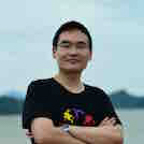
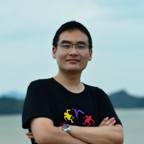
replace 秦之远 with 黄哲 change david anderson的图片 change 杨武东的图片

diff --git a/topics/huang_zhe.html b/topics/huang_zhe.html
@@ -1,0 +1,185 @@
+<!DOCTYPE html>
+<html lang="en">
+<head>
+    <title>SCRUM GATHERING CHINA 2016 | Topic Introduction Page</title>
+
+    <meta charset="utf-8">
+    <!--[if IE]>
+    <meta http-equiv='X-UA-Compatible' content='IE=edge,chrome=1'><![endif]-->
+    <meta name="viewport" content="width=device-width, initial-scale=1, maximum-scale=1"/>
+    <!--Add description for SEO-->
+    <meta property="og:title" content="SCRUM GATHERING CHINA 2016 | Topic Introduction Page"/>
+    <meta property="og:description"
+          content="Scrum Gathering China 2016 will be held at Hangzhou city during October 21-22, 2016.">
+    <!--Add image_src for the site-->
+    <meta property="og:image" content="http://scrumgathering.io/upload/speaker_huang_zhe.jpg"/>
+    <meta property="og:url" content="http://scrumgathering.io/"/>
+
+    <!-- Attaching Google Fonts -->
+    <!--<link href='https://fonts.googleapis.com/css?family=Lato:300italic,400italic,600italic,700italic,800italic,400,800,700,600,300' rel='stylesheet' type='text/css'>-->
+    <!--<link href='https://fonts.googleapis.com/css?family=Roboto:300,700,400' rel='stylesheet' type='text/css'>-->
+
+    <!-- Attaching Css -->
+    <link rel="stylesheet" href="../css/bootstrap.min.css"/>
+    <link rel="stylesheet" href="../css/lightbox.min.css"/>
+    <link rel="stylesheet" href="../css/elegant-icons.css"/>
+    <link rel="stylesheet" href="../css/font-awesome.css"/>
+    <link rel="stylesheet" href="../css/rev-slider.css"/>
+    <link rel="stylesheet" href="../css/owl.carousel.css">
+    <link rel="stylesheet" href="../css/style.css"/>
+    <link rel="stylesheet" href="../css/spacings.css"/>
+    <link rel="stylesheet" href="../css/responsive.css"/>
+    <link rel="stylesheet" href="../css/animate.css"/>
+
+    <!-- And also favicons -->
+    <link rel="shortcut icon" href="../upload/favicon.ico">
+    <link rel="apple-touch-icon" href="../upload/apple-touch-icon.png">
+    <link rel="apple-touch-icon" sizes="72x72" href="../upload/apple-touch-icon-72x72.png">
+    <link rel="apple-touch-icon" sizes="114x114" href="../upload/apple-touch-icon-114x114.png">
+
+    <!-- jQuery Scripts -->
+    <!--<script type="text/javascript" src="https://cdnjs.cloudflare.com/ajax/libs/jquery/2.1.3/jquery.min.js"></script>-->
+    <script type="text/javascript" src="../js/jquery.min.js"></script>
+    <script type="text/javascript" src="../js/canvas-vas.js"></script>
+    <script type="text/javascript" src="../js/bootstrap.min.js"></script>
+    <script type="text/javascript" src="../js/lightbox.min.js"></script>
+    <script type="text/javascript" src="../js/owl.carousel.min.js"></script>
+    <script type="text/javascript" src="../js/jquery.appear.js"></script>
+    <script type="text/javascript" src="../js/SmoothScroll.js"></script>
+    <script type="text/javascript" src="../js/jquery.localScroll.min.js"></script>
+    <script type="text/javascript" src="../js/jquery.scrollTo.min.js"></script>
+    <script type="text/javascript" src="../js/jquery.simple-text-rotator.min.js"></script>
+    <script type="text/javascript" src="../js/jquery.easing.min.js"></script>
+    <script type="text/javascript" src="../js/wow.min.js"></script>
+    <!--script type="text/javascript" src="https://maps.google.com/maps/api/js?sensor=false"></script-->
+    <script type="text/javascript" src="../js/jquery.gmap.js"></script>
+    <script type="text/javascript" src="../js/scripts.js"></script>
+
+    <!--Language Toggle-->
+    <script src="../js/js.cookie.js" charset="utf-8" type="text/javascript"></script>
+    <script src="../js/jquery-lang.js" charset="utf-8" type="text/javascript"></script>
+    <!--<script src="../js/langpack/nonDynamic.js" charset="utf-8" type="text/javascript"></script>-->
+    <script type="text/javascript">
+        var lang = new Lang();
+        lang.dynamic('ch', 'js/langpack/ch.json');
+        lang.init({
+            defaultLang: 'en'
+        });
+    </script>
+</head>
+
+<body data-spy="scroll" data-offset="80" data-target=".main-nav">
+
+<!-- Preloader -->
+<div id="preloader">
+    <div id="status">&nbsp;</div>
+</div>
+
+<header id="home">
+    <div class="main-nav" role="navigation">
+
+        <!--Language toggle-->
+        <div class="lang-toggle">
+            <a href="#" onclick="window.lang.change('en'); return false;">EN</a> | <a href="#"
+                                                                                      onclick="window.lang.change('ch'); return false;">中文</a>
+        </div>
+
+        <nav class="nav-hide">
+            <ul class="nav local-scroll">
+                <li><a lang="en" href="../index.html">HOMEPAGE</a></li>
+            </ul>
+        </nav>
+
+        <div class="container clearfix">
+
+            <img src="../upload/speaker_huang_zhe.jpg" class="speaker-img" alt="Huang Zhe">
+
+            <div class="navbar-toggle">
+                <div class="bar1"></div>
+                <div class="bar2"></div>
+                <div class="bar3"></div>
+            </div>
+
+            <div class="speaker-description">
+                <h6 class="main-title">
+                </h6>
+            </div>
+
+        </div> <!-- end container -->
+    </div> <!-- end main nav -->
+</header>
+
+<div class="main-wrapper-onepage main oh">
+
+    <!-- Page Title -->
+    <section class="page-title text-center">
+        <canvas id="spiders" height="138"></canvas>
+        <div class="container relative clearfix">
+
+            <h1 class="topic-title">
+                <span>让复杂变的简单</span><br>
+                <span> -- 中国传统学术对敏捷的认知和指导</span>
+            </h1>
+            <br/><br/>
+            <div>
+                <h3 class="topic-intro">[讲师介绍]</h3>
+                <h5 class="topic-intro-detail">
+                    黄哲先生有15年的软件开发背景,CSM, CSP, PMP。担任过开发人员，技术经理，项目经理的职位，因为对敏捷的热情彻底转型为敏捷教练。目前隶属于IBM大中华区首席技术办公室--Agile与DevOps卓越中心， 对敏捷如何帮助个人及组织有着浓厚的兴趣，并且积极的参与社区分享和演讲（Global Scrum Gathering, AgileTour等），在分布式大规模团队的敏捷实施和转型有着丰富的经验。黄哲在IBM大中华区首席技术办公室--创新开发中心担任敏捷教练一职，研究和实施敏捷与IBM现有技术与实践的融合（Bluemix, IBM Design Think等），评估和推广IBM商业项目敏捷实践，同时也担任外部敏捷咨询师。
+                </h5>
+            </div>
+        </div> <!-- end container -->
+    </section> <!-- end page title -->
+    <section class="section-wrap" id="intro">
+        <div class="container">
+            <div class="row">
+                <div class="topic-intro">
+                    <div class="topic-text">[主题内容]</div>
+                    <h5 class="topic-text">
+                        一、时势造敏捷，在当前的软件开发背景下，敏捷正如火如荼的在全球发展起来，Scrum 大概是最受欢迎的实践之一。那么，作为Scrum实施者，你真的了解Scrum么？作为敏捷培训师，如何把Scrum更简单易懂的传递给听众？作为敏捷转型负责人，你又如何更清晰的规划你的敏捷转型？作为领导者，你真的知道如何帮助敏捷团队么？
+                    </h5>
+                    <h5 class="topic-text">
+                        二、提到中国传统文化和学术，博大精深是避免不了的，但是，中国传统文化和学术到底是什么？中国传统学术是否能够科学而又有逻辑的解析来自西方的Scrum框架？
+                    </h5>
+                    <h5 class="topic-text">
+                        本次演讲将从这两方面的内容展开，同时分享自己在工作中的运用体会，如果能给大家带来新的答案和启发，作者将不甚欣喜。
+                    </h5>
+                </div>
+            </div> <!-- end row -->
+
+        </div> <!-- end container -->
+    </section> <!-- end intro -->
+    <!-- Footer -->
+    <footer id="footer" class="minimal">
+        <div class="container">
+            <div class="row">
+                <div class="col-md-4 col-md-offset-4">
+
+                    <!-- <div class="socials">
+                        <a href="#"><i class="fa fa-facebook"></i></a>
+                        <a href="#"><i class="fa fa-twitter"></i></a>
+                        <a href="#"><i class="fa fa-google-plus"></i></a>
+                        <a href="#"><i class="fa fa-linkedin"></i></a>
+                        <a href="#"><i class="fa fa-pinterest-p"></i></a>
+                        <a href="#"><i class="fa fa-instagram"></i></a>
+                    </div>  --><!-- end socials -->
+
+                    <span class="copyright text-center">
+								浙ICP备16015963号 | 公安机关备案33010402001612号
+							</span>
+                    <span class="copyright text-center">
+								©2016 杭州敏捷社区 版权所有
+							</span>
+
+                </div> <!-- end col -->
+            </div> <!-- end row -->
+        </div> <!-- end container -->
+    </footer> <!-- end footer -->
+
+    <div id="back-to-top">
+        <a href="#top"><i class="arrow_carrot-up"></i></a>
+    </div>
+
+</div> <!-- end main-wrapper -->
+
+</body>
+</html>

diff --git a/agenda.html b/agenda.html
@@ -754,19 +754,19 @@
                         <div class="entry-box">
                             <div>
                                 <h4>
-                                    <a href="topics/qin_zhiyuan.html">敏捷转型10年后的认知</a>
+                                    <a href="topics/huang_zhe.html">让复杂变的简单</a>
                                     <a href="room_huanglong.html"
                                        class="speaker-name"> 【黄龙厅】</a>
                                 </h4>
                             </div>
                             <div class="entry-img">
-                                <a href="topics/qin_zhiyuan.html"> <img
-                                        src="upload/speaker_qin_zhiyuan.jpg"
-                                        alt="Qin Zhiyuan"> </a>
+                                <a href="topics/huang_zhe.html"> <img
+                                        src="upload/speaker_huang_zhe.jpg"
+                                        alt="Huang Zhe"> </a>
                             </div>
                             <div>
-                                <a href="topics/qin_zhiyuan.html"
-                                   class="speaker-name">秦之远</a>
+                                <a href="topics/huang_zhe.html"
+                                   class="speaker-name">黄哲</a>
                             </div>
 
                         </div>
